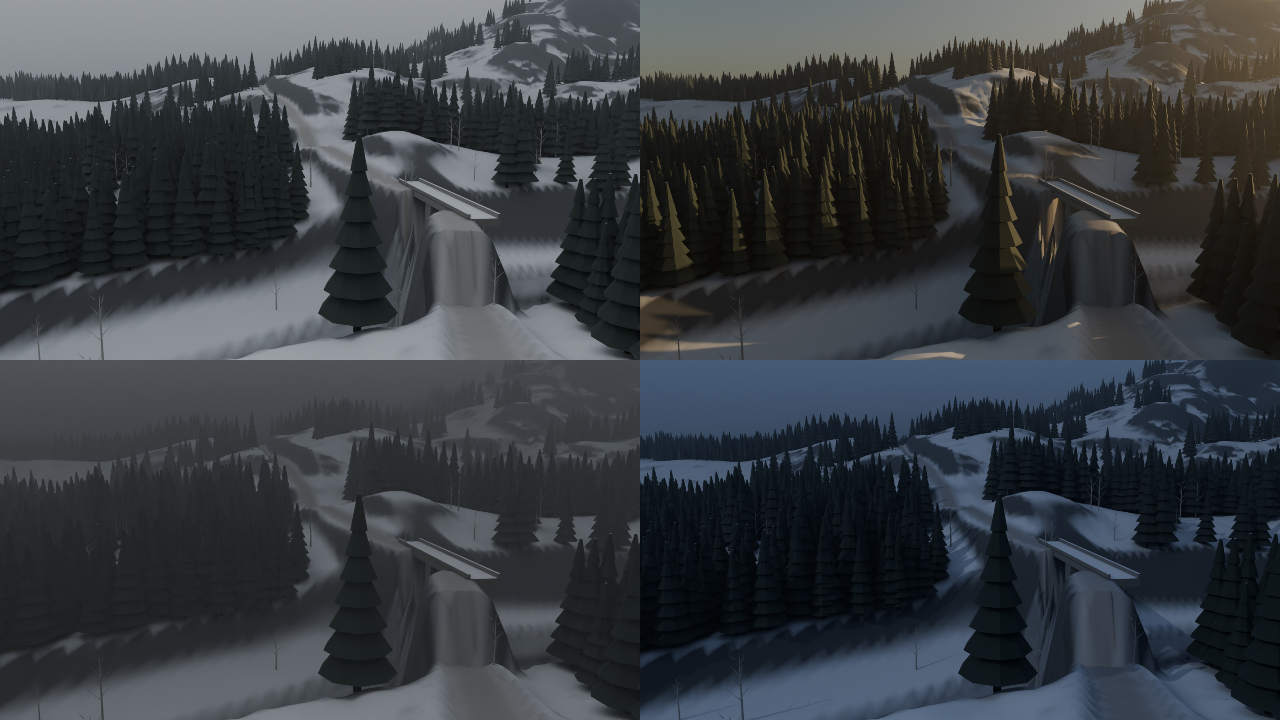
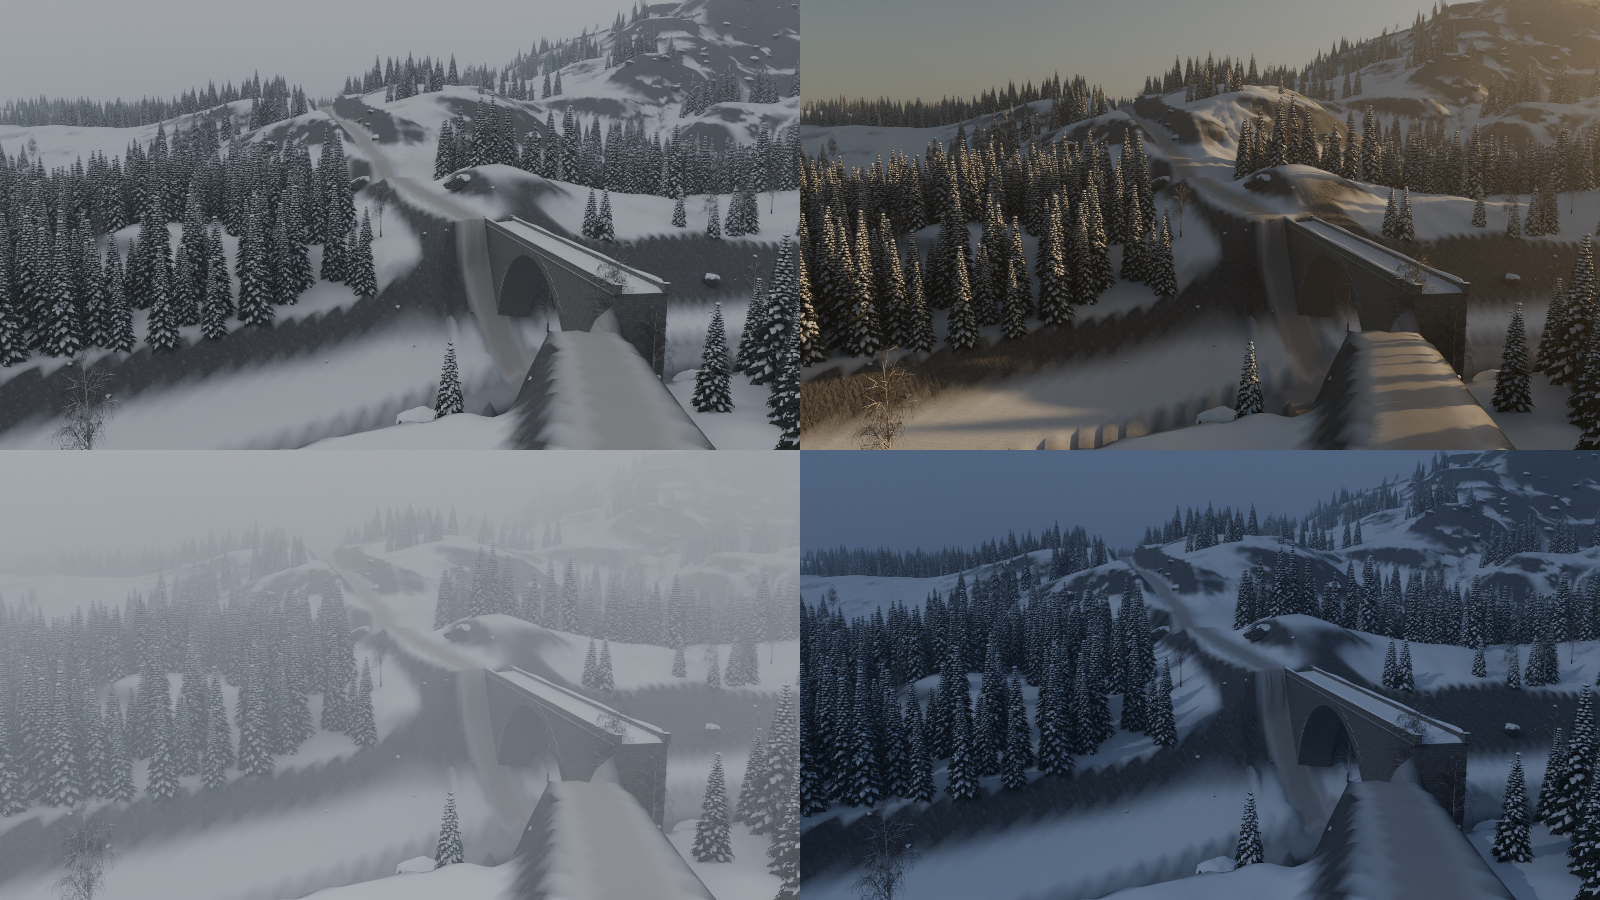
#390 v2 renders: 4 presets + bridge/farm/falls close-ups, sheets

diff --git a/handoffs/laptop-i5/TODO_adjustedfilm.md b/handoffs/laptop-i5/TODO_adjustedfilm.md
@@ -13,7 +13,7 @@ the real meshes, snow glints, rock texture, blizzard multiple scattering, 3 prop
 Next, in order: (1) fix from the Master's log `ue/wk390_log.txt` (meshes/props/dress steps are untested in UE);
 (2) BPC_SnowTrails (RT trail mask + packed layer + POM in M_WK_Landscape; RESEARCH.md section 4) - needs a T3D or a
 setup script, ask for no export (new BP); (3) snow Niagara from the #226 rain (request an export of the rain system
-first); (4) blizzard still needs a check in the new lookdev; (5) spruce snow cushions are a bit round, falls texture streaky; (6) grey terrain wall at the WEST bridge end (road cut clip, see gate_overcast.png); (7) when the background renders finish, post gate lowsun/blizzard/night + bridge/farm/falls shots (lookdev/shots) and a before/after sheet (lookdev/make_sheet.py).
+first); (4) blizzard white-out DONE in lookdev (posted); (5) spruce snow cushions are a bit round, falls texture streaky; (6) grey terrain wall at the WEST bridge end (road cut clip, see gate_overcast.png); (7) all v2 renders posted.
 
 ## Closed today (in the game, checked by the Master)
 
